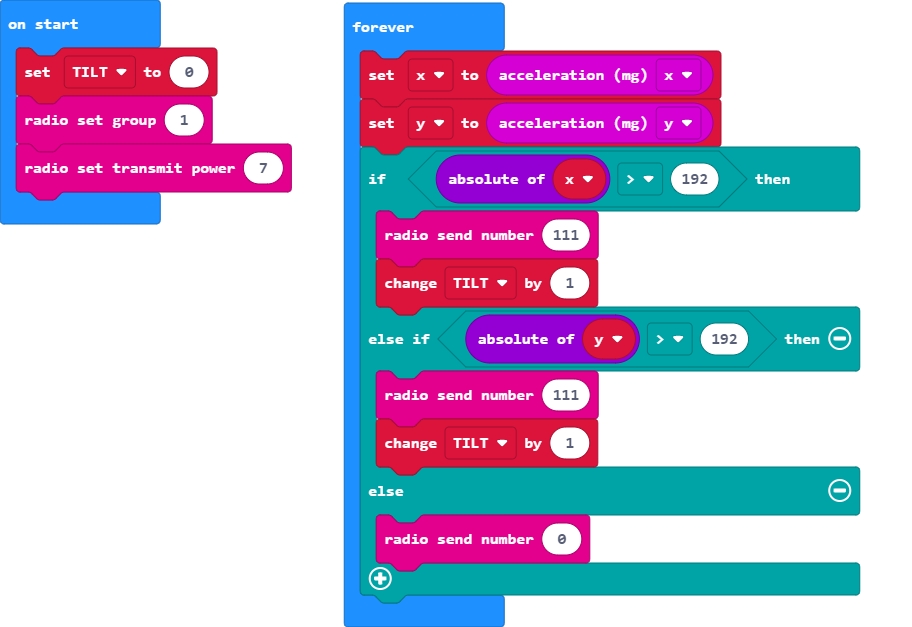
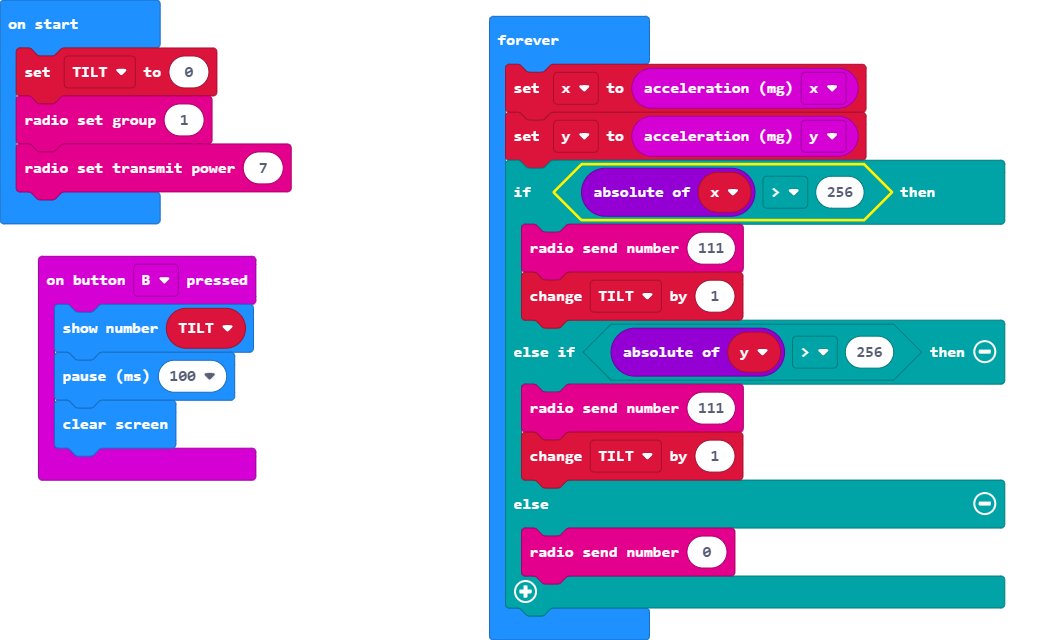
Added a tilt counter

diff --git a/main.ts b/main.ts
@@ -1,15 +1,21 @@
+input.onButtonPressed(Button.B, function () {
+    basic.showNumber(TILT)
+    basic.pause(100)
+    basic.clearScreen()
+})
 let y = 0
 let x = 0
 let TILT = 0
+TILT = 0
 radio.setGroup(1)
 radio.setTransmitPower(7)
 basic.forever(function () {
     x = input.acceleration(Dimension.X)
     y = input.acceleration(Dimension.Y)
-    if (Math.abs(x) > 192) {
+    if (Math.abs(x) > 256) {
         radio.sendNumber(111)
         TILT += 1
-    } else if (Math.abs(y) > 192) {
+    } else if (Math.abs(y) > 256) {
         radio.sendNumber(111)
         TILT += 1
     } else {
